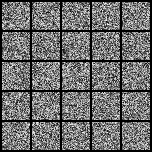
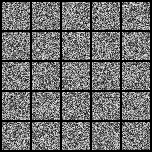
fix nf

diff --git a/assignment_3/code/a3_nf_template.py b/assignment_3/code/a3_nf_template.py
@@ -79,7 +79,7 @@ class Coupling(torch.nn.Module):
         s = tanh(s)
         if not reverse:
             z = self.mask * z + (1-self.mask) * ( z * torch.exp(s) + t)
-            ldj = torch.sum((1-self.mask)*s,dim=1)
+            ldj = ldj + torch.sum((1-self.mask)*s,dim=1)
         else:
             z = self.mask * z + (1 - self.mask) * ((z - t) * torch.exp(-s))
             ldj = torch.zeros(ldj.shape)
